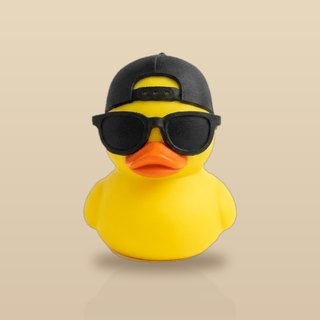
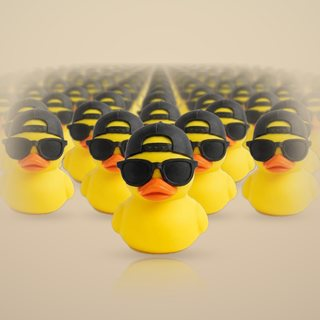
cool (giveaways): crowd-scene hero image in the site background; tools/crowd-scene.py for future giveaway products; rule in CLAUDE.md; cache v259
Claude-Session: https://claude.ai/code/session_017P9QyBusJFqSaxz4PVBV6d

diff --git a/sw.js b/sw.js
@@ -1,7 +1,7 @@
 // RAX3D shop: network first (always fresh), falls back to cache when offline.
 // v38: points.json is network-only (never cached), old caches are deleted on activate,
 // and 3D models (models/) are capped to the last 8 used so phones don't fill up.
-const C = 'rax3d-shop-v258', M = 'rax3d-models-v104', MAX_MODELS = 8;
+const C = 'rax3d-shop-v259', M = 'rax3d-models-v104', MAX_MODELS = 8;
 self.addEventListener('install', e => self.skipWaiting());
 self.addEventListener('activate', e => e.waitUntil(
   caches.keys().then(ks => Promise.all(ks.filter(k => k !== C && k !== M).map(k => caches.delete(k)))).then(() => self.clients.claim())

diff --git a/tools/crowd-scene.py b/tools/crowd-scene.py
@@ -1,0 +1,51 @@
+#!/usr/bin/env python3
+"""Giveaway (التوزيعات) hero image: one product photo repeated in receding rows on the site's cream background.
+Usage: python3 tools/crowd-scene.py <id> [--src hq/<id>-0.webp] [--rect x,y,w,h]
+Needs: pillow, numpy, opencv-python-headless. The piece is cut out of its own photo (GrabCut), then drawn in perspective rows:
+a sharp hero duck/piece front and centre, rows behind it smaller, softer and fading into the cream background (so nothing is cut at the frame).
+Writes hq/<id>-0.webp (800x800) and thumbs/<id>.jpg (320x320). The image is computer-composed: say so when you present it."""
+import sys,random,argparse
+import numpy as np,cv2
+from PIL import Image,ImageFilter
+ap=argparse.ArgumentParser();ap.add_argument('id');ap.add_argument('--src');ap.add_argument('--rect');a=ap.parse_args()
+src_path=a.src or f'hq/{a.id}-0.webp';random.seed(7)
+def bg():
+    ys=np.array([0,150,300,450,600,799]);cols=np.array([[232,217,190],[231,215,188],[228,210,182],[225,206,178],[221,201,174],[215,196,171]],float)
+    arr=np.zeros((800,800,3))
+    for c in range(3): arr[:,:,c]=np.interp(np.arange(800),ys,cols[:,c])[:,None]
+    yy,xx=np.mgrid[0:800,0:800];arr*=(1-0.07*(((xx-400)**2+(yy-380)**2)/(400**2*2)))[:,:,None]
+    return Image.fromarray(arr.clip(0,255).astype('uint8')).convert('RGBA')
+im=np.array(Image.open(src_path).convert('RGB'));h,w=im.shape[:2];bgr=cv2.cvtColor(im,cv2.COLOR_RGB2BGR)
+rect=tuple(int(v) for v in a.rect.split(',')) if a.rect else (int(w*.23),int(h*.13),int(w*.54),int(h*.72))
+mask=np.zeros((h,w),np.uint8);cv2.grabCut(bgr,mask,rect,np.zeros((1,65)),np.zeros((1,65)),6,cv2.GC_INIT_WITH_RECT)
+m=((mask==1)|(mask==3)).astype(np.uint8);n,lab,st,_=cv2.connectedComponentsWithStats(m);m=(lab==1+np.argmax(st[1:,4])).astype(np.uint8)
+ff=m.copy();cv2.floodFill(ff,np.zeros((h+2,w+2),np.uint8),(0,0),2);m=np.where(ff==2,0,1).astype(np.uint8);m=cv2.morphologyEx(m,cv2.MORPH_OPEN,cv2.getStructuringElement(cv2.MORPH_ELLIPSE,(7,7)))
+al=cv2.GaussianBlur(cv2.erode(m,np.ones((3,3),np.uint8)).astype(np.float32),(0,0),1.0);x,y,bw,bh=cv2.boundingRect(m);pad=6
+duck=np.dstack([im.astype(np.float32),al*255]).astype(np.uint8)[max(0,y-pad):y+bh+pad,max(0,x-pad):x+bw+pad];dh0,dw0=duck.shape[:2]
+BG=bg();bgarr=np.array(BG).astype(np.float32);H0=345;S0=H0/dh0;RATIO=.80;G=98;base0=640
+counts=[1,4,5,7,9,11,13,15,17,19,21,23,25,27]
+blurs=[0,.6,1.2,1.9,2.6,3.3,3.8,4.2,4.5,4.8,5,5,5,5];fades=[0,.05,.11,.18,.26,.35,.45,.55,.65,.73,.80,.86,.90,.93]
+placed=[];sh=np.zeros((800,800),np.float32);yy,xx=np.mgrid[0:800,0:800]
+for d,n_ in enumerate(counts):
+    s=S0*RATIO**d;base=base0-G*(1-RATIO**d)/(1-RATIO);pitch=dw0*s
+    for i in range(n_):
+        cx=400 if d==0 else 400+(i-(n_-1)/2)*pitch+random.uniform(-.03,.03)*pitch
+        sc=s*random.uniform(.985,1.015);by=base+random.uniform(-2,2)*s;placed.append((d,cx,by,sc,random.uniform(-1.5,1.5)))
+        e=((xx-cx)/(dw0*sc*.46))**2+((yy-(by-3))/(dw0*sc*.065))**2;sh=np.maximum(sh,(np.exp(-e*1.6)*.30*(1-.05*d)).astype(np.float32))
+out=Image.composite(Image.new('RGBA',(800,800),(70,52,30,255)),BG.copy(),Image.fromarray((np.clip(sh,0,1)*255).astype(np.uint8)).filter(ImageFilter.GaussianBlur(6)));hero=None
+for d,cx,by,sc,ang in sorted(placed,key=lambda t:-t[0]):
+    img=Image.fromarray(duck,'RGBA').resize((max(2,int(dw0*sc)),max(2,int(dh0*sc))),Image.LANCZOS)
+    if abs(ang)>.01: img=img.rotate(ang,resample=Image.BICUBIC,expand=True)
+    arr=np.array(img).astype(np.float32);f=fades[d];arr[...,:3]=arr[...,:3]*(1-f)+bgarr[int(np.clip(by-dh0*sc/2,0,799)),400,:3]*f
+    img=Image.fromarray(arr.clip(0,255).astype(np.uint8),'RGBA')
+    if blurs[d]>.05: img=img.filter(ImageFilter.GaussianBlur(blurs[d]))
+    px=int(cx-img.width/2);py=int(by-img.height+pad*sc)
+    if px>-img.width and px<800: out.alpha_composite(img,(px,py)) if px>=0 and py>=0 else out.alpha_composite(img.crop((max(0,-px),max(0,-py),img.width,img.height)),(max(px,0),max(py,0)))
+    if d==0: hero=(img,px,py)
+img,px,py=hero;refl=img.transpose(Image.FLIP_TOP_BOTTOM);ra=np.array(refl.split()[3]).astype(np.float32);fh=np.clip(1-np.arange(ra.shape[0])/(ra.shape[0]*.40),0,1)**1.7*.30
+refl.putalpha(Image.fromarray((ra*fh[:,None]).astype(np.uint8)));ry=py+img.height-4;room=800-ry
+if room>0: out.alpha_composite(refl.crop((0,0,refl.width,min(refl.height,room))),(px,ry))
+res=np.array(out.convert('RGB')).astype(np.float32);dx=np.abs(xx-400)/400.;dy=(yy-420)/420.;v=np.clip((np.sqrt(dx**2+dy**2*.9)-.62)/.38,0,1)**1.4
+res=res*(1-v[...,None]*.85)+np.array(BG.convert('RGB')).astype(np.float32)*v[...,None]*.85
+fin=Image.fromarray(res.clip(0,255).astype(np.uint8));fin.save(f'hq/{a.id}-0.webp','WEBP',quality=86,method=6);fin.resize((320,320),Image.LANCZOS).save(f'thumbs/{a.id}.jpg','JPEG',quality=84,optimize=True)
+print('ok',a.id,len(placed),'ducks')

diff --git a/CLAUDE.md b/CLAUDE.md
@@ -25,6 +25,11 @@ Do this in the same commit as the product. Never grow either list. Say in the re
 - Lowest-loss rule: the default shop price is the app's suggested shop price (zero gap, no loss against the suggestion). Go below it only when the owner sets a price by hand.
 - BEFORE the owner confirms any price, tell him: the single price, the wholesale price, and the net profit in SAR and in % for both (and the gap against the suggested price when he set it by hand). Apply Rule 3 to the wholesale. Nothing goes live before he confirms. (Example: hdcookie, 14.27 g, 0.92 h, cost 6.03: app price 31 / 24, owner chose 30 by hand.)
 
+## Giveaway (التوزيعات) product photos (owner's standing order, 11-14)
+- The main image (`hq/<id>-0.webp`, 800x800) of EVERY giveaway product is a crowd scene: many identical copies of the piece in receding rows, ONE sharp hero copy front and centre, the rows behind smaller, softer and fading into the site's cream background (no hard cut at the frame, no studio/white background), so the customer understands at a glance that it is sold in bulk and with the same brand look.
+- Build it with `python3 tools/crowd-scene.py <id> [--src photo] [--rect x,y,w,h]` (cuts the piece out of its own photo with GrabCut, needs opencv-python-headless; also writes `thumbs/<id>.jpg`). Look at the result, check the cut-out edges and the hero centring before showing it. The image is computer-composed from one photo: say so when presenting it.
+- The same applies to the home strip card (thumb). Colour images are not needed for giveaways ordered by message.
+
 ## Distribution (bulk giveaway) pricing (owner's standing order, 11-13)
 - Distributions (orders of 50+ pieces of one piece) have their own pricing, NOT the normal wholesale tier. Unit cost = (grams x 0.115 x 1.2 + hours x 1.15) x 1.05 (5% failure allowance, always included) + 0.5 (bulk packaging).
 - Unit price = `((cost + 1.2 / qty) / (0.968 - target net margin))` rounded UP to 0.05 SAR. Target net margin: 50 pcs 40%, 100 pcs 37%, 500 pcs 33%, 1000 pcs 30% (about cost x 1.76 / 1.67 / 1.57 / 1.50). Minimum order 50 pieces.
